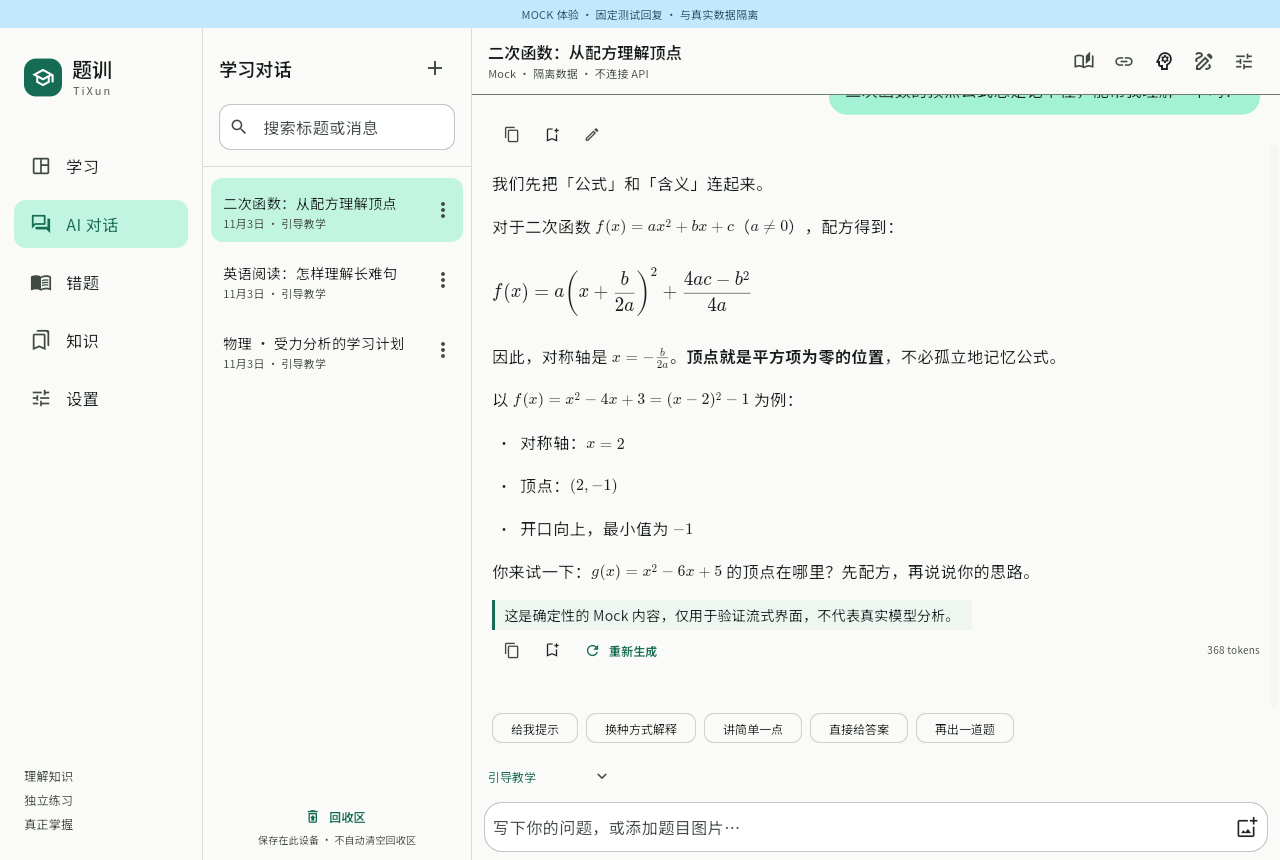
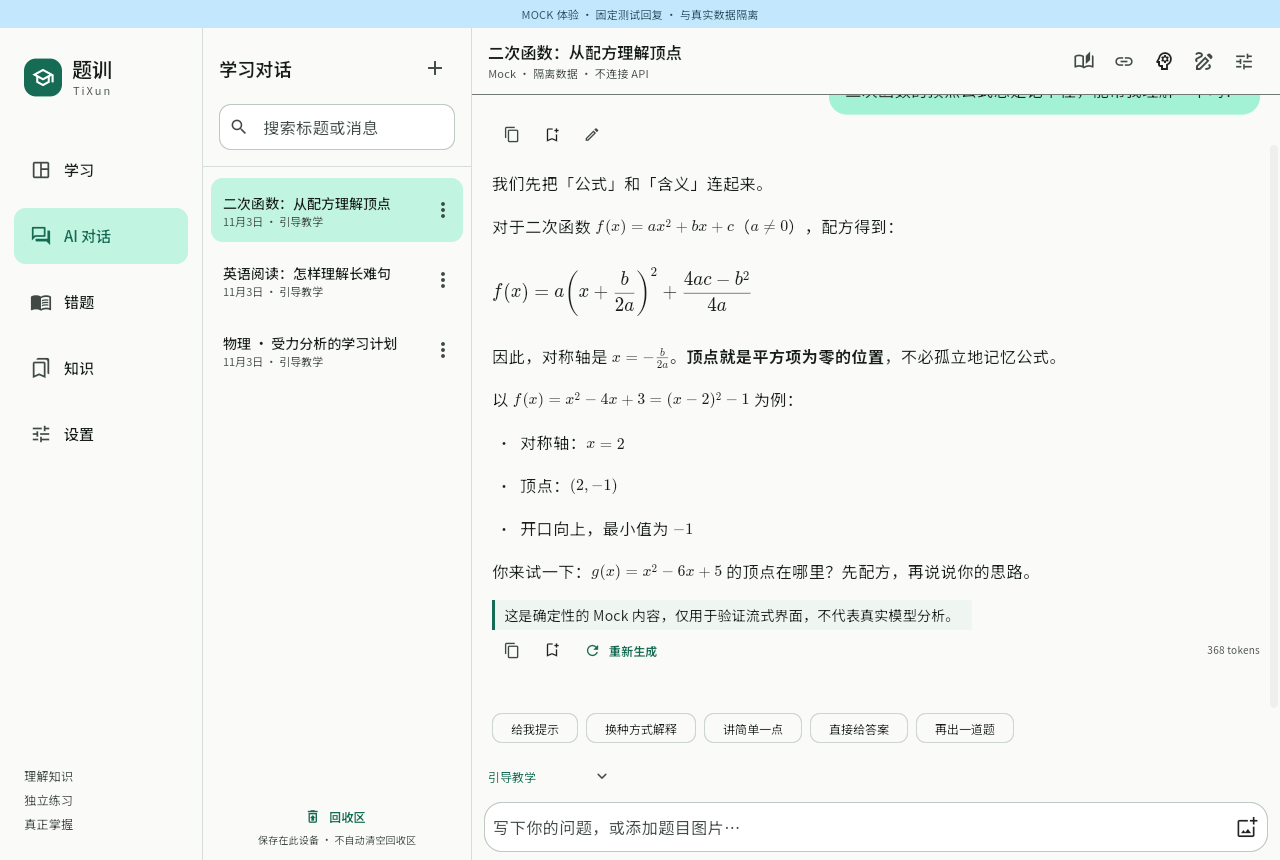
fix(ci): avoid unreachable runner mirror and pause timeouts during review

diff --git a/test/python_review_timeout_test.dart b/test/python_review_timeout_test.dart
@@ -1,0 +1,122 @@
+import 'dart:async';
+import 'dart:io';
+
+import 'package:dio/dio.dart';
+import 'package:flutter_test/flutter_test.dart';
+import 'package:tixun/core/ai/chat_provider.dart';
+import 'package:tixun/core/ai/prompt_settings.dart';
+import 'package:tixun/core/database/database.dart';
+import 'package:tixun/core/platform/attachment_store.dart';
+import 'package:tixun/core/python/python_tool.dart';
+import 'package:tixun/features/chat/learning_run.dart';
+import 'package:tixun/features/library/study_store.dart';
+import 'package:tixun/features/practice/practice_store.dart';
+import 'package:tixun/features/review/review_store.dart';
+
+class _Calculation implements ChatProvider {
+  int round = 0;
+  @override
+  AiConversation start(ProviderConfig config, {String? apiKeyOverride}) =>
+      AiConversation((req, cancel) async* {
+        if (round++ == 0) {
+          yield const AiChunk(
+            calls: [
+              ToolCall(
+                'calc',
+                'run_python',
+                '{"code":"print(9)","purpose":"核对结果"}',
+              ),
+            ],
+            completed: true,
+          );
+        } else {
+          yield const AiChunk(text: '计算结果为9。', completed: true);
+        }
+      });
+}
+
+void main() {
+  test(
+    'Reviewing code pauses the inference deadline without bypassing approval',
+    () async {
+      final db = AppDatabase.memory();
+      final root = await Directory.systemTemp.createTemp('review-deadline');
+      final files = AttachmentStore(root);
+      final study = StudyStore(db, files);
+      final practice = PracticeStore(db, files: files);
+      final review = ReviewStore(db);
+      final session = await db.createSession();
+      await db
+          .into(db.chatMessages)
+          .insert(
+            ChatMessagesCompanion.insert(
+              id: 'user',
+              sessionId: session.id,
+              role: 'user',
+              content: '用Python核对计算',
+              createdAt: DateTime.now(),
+            ),
+          );
+      var executed = false;
+      final python = PythonTool(
+        db,
+        root,
+        execute:
+            ({
+              required code,
+              required workspace,
+              required timeoutSeconds,
+              required cancel,
+            }) async {
+              executed = true;
+              return {'ok': true, 'stdout': '9'};
+            },
+      );
+      final run = LearningRun(
+        db,
+        files,
+        study,
+        practice,
+        review,
+        _Calculation(),
+        pythonTool: python,
+      );
+      final result = await runZoned(
+        () async => run.run(
+          sessionId: session.id,
+          runId: 'answer',
+          requestConfig: await db.config(),
+          requestPrompts: PromptSettings(),
+          history: await db.messages(session.id),
+          images: [],
+          mode: 'direct',
+          authorized: false,
+          cancel: CancelToken(),
+          confirm: (_, args, count) async {
+            expect(executed, false);
+            await Future<void>.delayed(const Duration(milliseconds: 700));
+            return true;
+          },
+          onProgress: (_) async {},
+        ),
+        zoneSpecification: ZoneSpecification(
+          createTimer: (self, parent, zone, duration, callback) =>
+              parent.createTimer(
+                zone,
+                duration == const Duration(minutes: 3)
+                    ? const Duration(milliseconds: 300)
+                    : duration,
+                callback,
+              ),
+        ),
+      );
+      expect(executed, true);
+      expect(result.text, contains('9'));
+      study.dispose();
+      practice.dispose();
+      review.dispose();
+      await db.close();
+      await root.delete(recursive: true);
+    },
+  );
+}

diff --git a/lib/features/chat/learning_run.dart b/lib/features/chat/learning_run.dart
@@ -80,10 +80,23 @@ class LearningRun {
     confirm,
     required Future<void> Function(LearningRunResult progress) onProgress,
   }) async {
-    final timer = Timer(
-      const Duration(minutes: 3),
-      () => cancel.cancel('timeout'),
-    );
+    Timer deadline() =>
+        Timer(const Duration(minutes: 3), () => cancel.cancel('timeout'));
+    var timer = deadline();
+    Future<bool> approve(
+      String name,
+      Map<String, dynamic> args,
+      int count,
+    ) async {
+      // Human review time is not inference time. Stop remains available.
+      timer.cancel();
+      try {
+        return await confirm(name, args, count);
+      } finally {
+        timer = deadline();
+      }
+    }
+
     var text = '';
     int? tokens;
     var quizCreated = false,
@@ -315,7 +328,7 @@ class LearningRun {
         authorized: toolsEnabled,
         sourceImages: sourceImages,
         sourceSessionId: studyTask?.sourceSessionId,
-        confirm: (name, args) => confirm(name, args, sourceImages.length),
+        confirm: (name, args) => approve(name, args, sourceImages.length),
       );
       final conversation = provider.start(requestConfig);
       var finished = false;
@@ -413,7 +426,7 @@ class LearningRun {
                   sessionId: sessionId,
                   runId: runId,
                   cancel: cancel,
-                  confirm: (name, args) => confirm(name, args, 0),
+                  confirm: (name, args) => approve(name, args, 0),
                 )
               : call.name == 'suggest_question_regions' && !exam
               ? (sourceImages.isNotEmpty

diff --git a/test/navigation_feedback_test.dart b/test/navigation_feedback_test.dart
@@ -106,15 +106,14 @@ void main() {
       );
       expect(ink.customBorder, isA<RoundedRectangleBorder>());
       final shape = ink.customBorder! as RoundedRectangleBorder;
-      expect(
-        shape.borderRadius.resolve(TextDirection.ltr).topLeft,
-        const Radius.circular(16),
-      );
+      final corner = shape.borderRadius.resolve(TextDirection.ltr).topLeft;
+      expect(corner.x, greaterThan(0));
+      expect(corner.y, greaterThan(0));
       final tile = t.widget<ListTile>(row);
       final padding =
           tile.contentPadding ??
           ListTileTheme.of(t.element(row)).contentPadding!;
-      expect(padding.resolve(TextDirection.ltr).left, 16);
+      expect(padding.resolve(TextDirection.ltr).left, greaterThanOrEqualTo(12));
       final press = await t.startGesture(t.getCenter(row));
       await t.pump(const Duration(milliseconds: 100));
       await press.up();

diff --git a/DEVELOPMENT.md b/DEVELOPMENT.md
@@ -42,7 +42,7 @@ dart run drift_dev schema generate test/fixtures test/generated_migrations
 
 ## 持续集成
 
-普通 push / PR 执行静态分析、自动测试、Android Debug APK、Linux 正式构建与 GUI 启动冒烟，并上传程序、截图与日志。完整 GUI 回归仅在版本发布或手动勾选 `full_gui` 时运行；Nightly 跳过单元测试与完整 GUI 回归。十一个 GUI 测试入口由 [scripts/gui_tests.sh](scripts/gui_tests.sh) 顺序执行，各有独立日志、240 秒超时，并在首个失败时停止。纯文档修改不触发完整构建。CI 还接受 `nightly_tag` 输入（字符串，默认空），仅 Nightly 传入，用于将标签写入构建。
+普通 push / PR 执行静态分析、自动测试、Android Debug APK、Linux 正式构建与 GUI 启动冒烟，并上传程序、截图与日志。完整 GUI 回归仅在版本发布或手动勾选 `full_gui` 时运行；Nightly 跳过单元测试与完整 GUI 回归。十二个 GUI 测试入口由 [scripts/gui_tests.sh](scripts/gui_tests.sh) 顺序执行，各有独立日志、240 秒超时，并在首个失败时停止。纯文档修改不触发完整构建。CI 还接受 `nightly_tag` 输入（字符串，默认空），仅 Nightly 传入，用于将标签写入构建。
 
 ## 按版本标签发布
 
